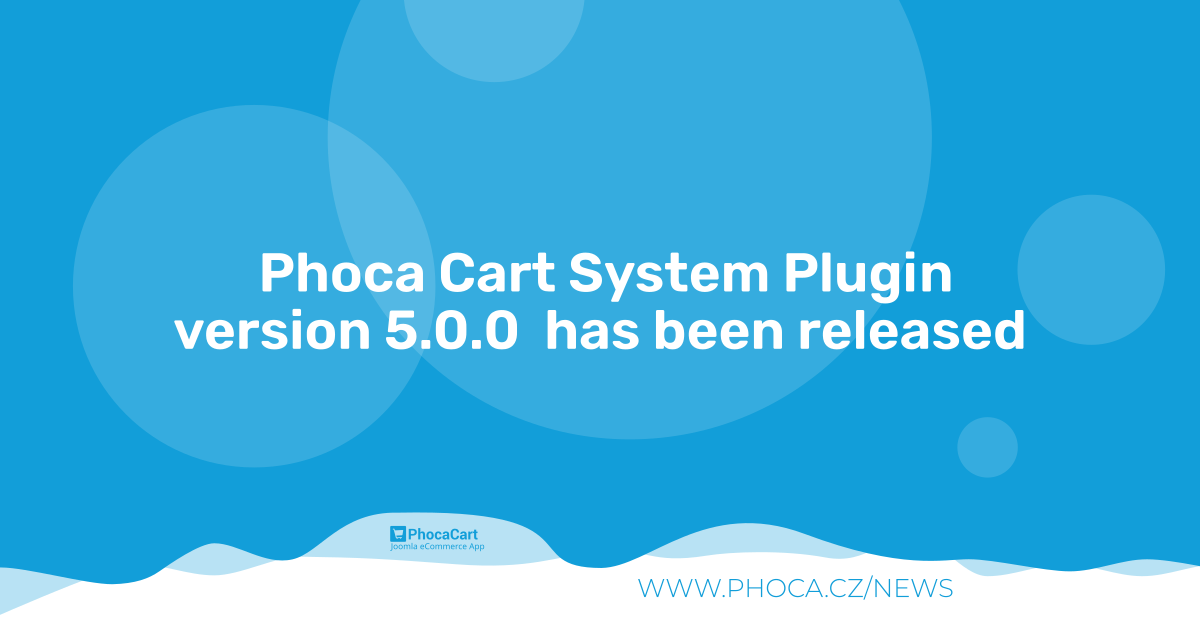
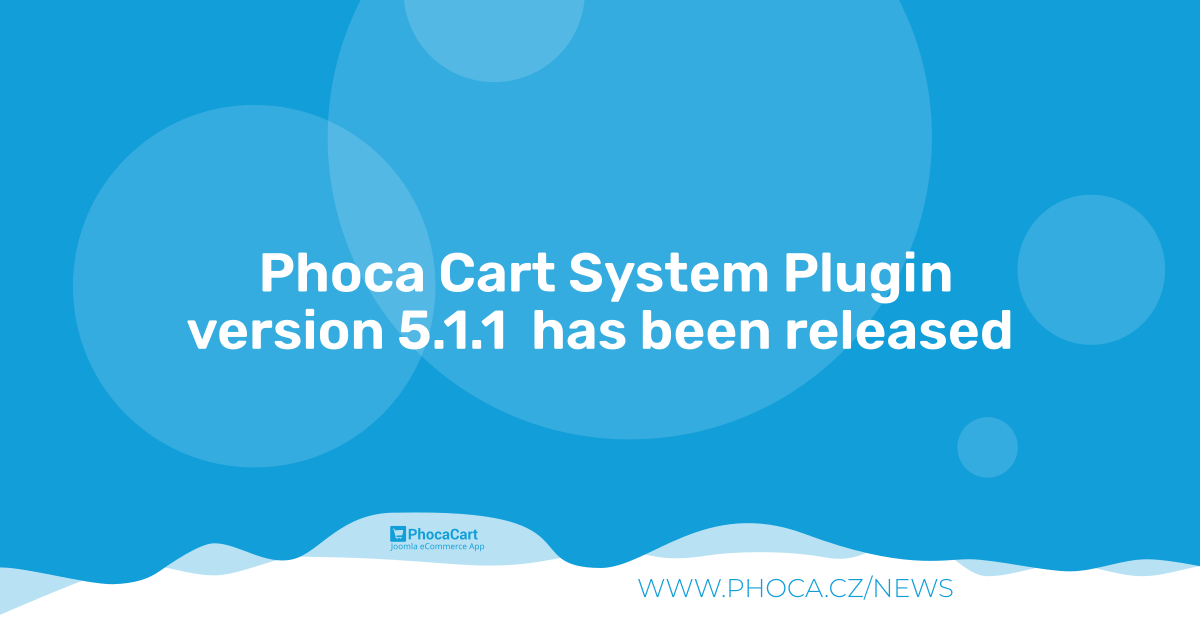
5.1.1

Changed region(s): [[0.1233, 0.4825, 0.8633, 0.573]]

diff --git a/README.MD b/README.MD
@@ -52,9 +52,17 @@ Phoca Cart System Plugin - main Phoca Cart System plugin.
 
 
 
+## Version (Joomla! 3.x)
+
+3.5.8
+
+## Version (Joomla! 4.x)
+
+4.0.11
+
 ## Version (Joomla! 5.x)
 
-5.0.0
+5.1.1
 
 
 
